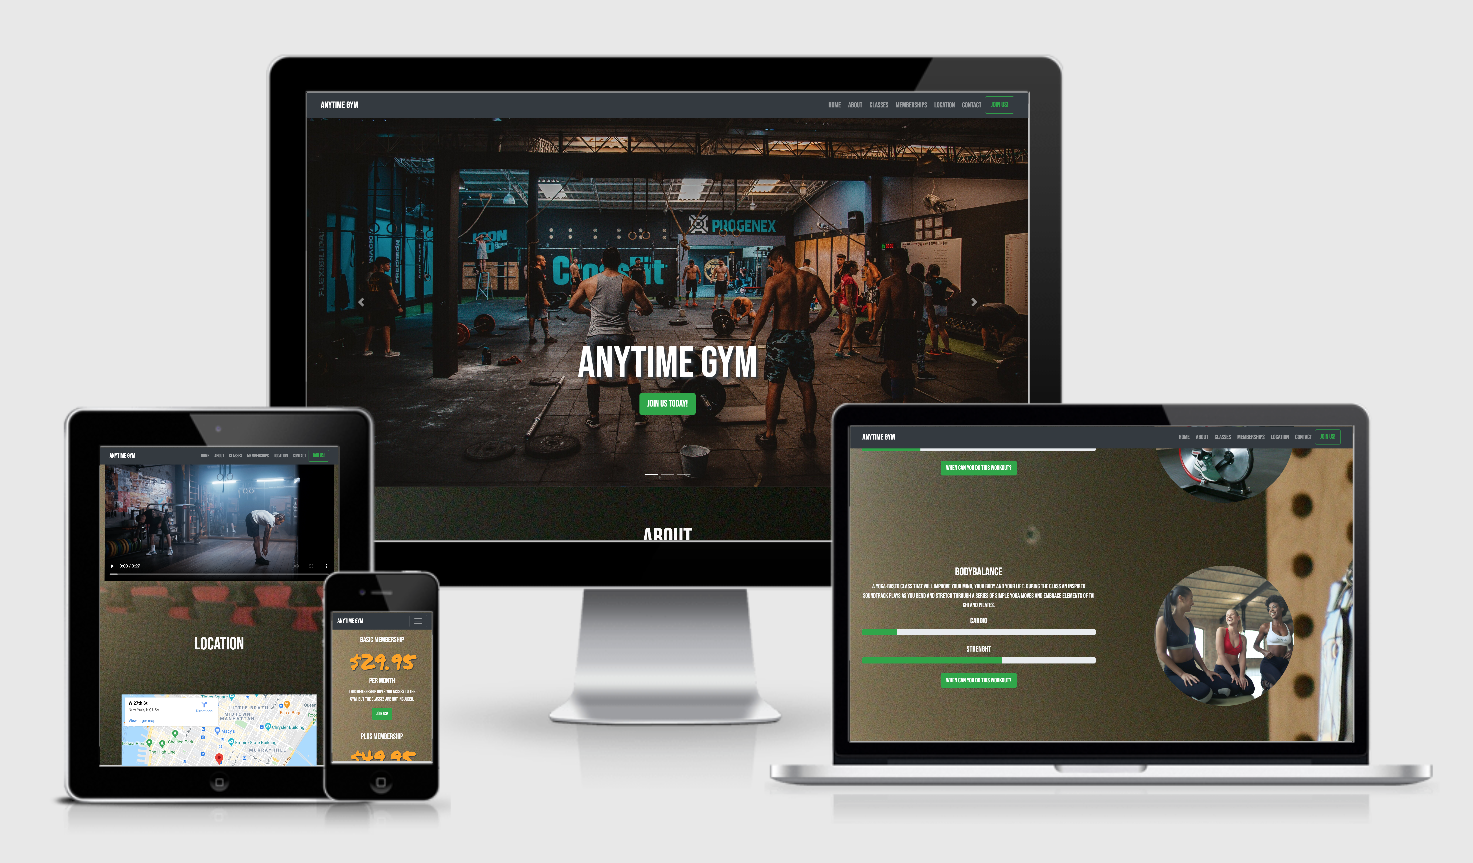
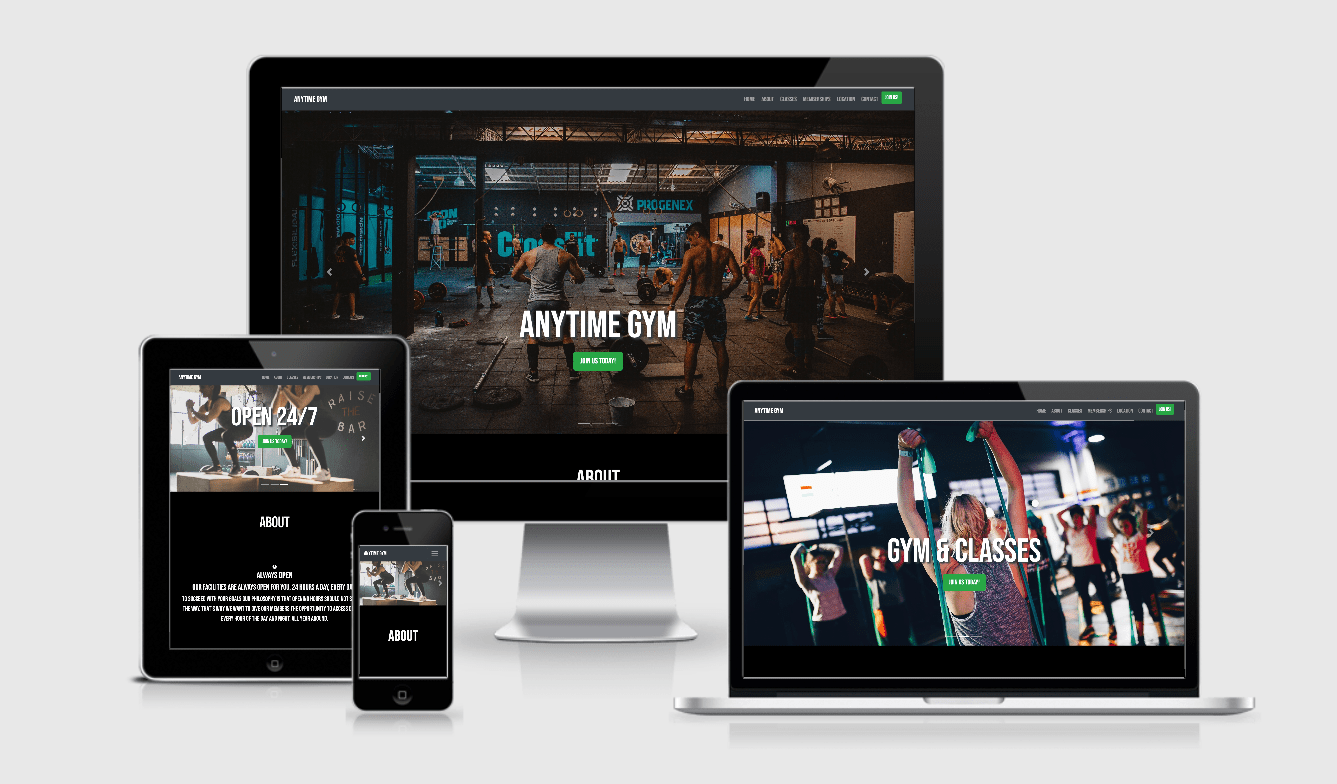
Updated README file, testing section and updated mockup image

diff --git a/README.md b/README.md
@@ -11,7 +11,7 @@ A HTML5, CSS3 & Bootstrap website.
 
 A live website can be found [here](https://emiberndt.github.io/User-Centric-Frontend-Project---AnytimeGym/)
 
-![Mockup](/assets/images/mockup.png)
+![Mockup](assets/images/mockup.png)
 
 
 # Table of Contents
@@ -189,35 +189,71 @@ On each image-slide there is also a button for the user to click to be able to s
 
 #### Google Developer Tools 
 
-I used Google Developer tools to help identify any flagged errors. A handy feature is the audit tool, and it alerted me that I had to compress my images even further. 
+I used Google Developer tools to help identify any errors, aswell as testing its responsive features. 
 
-As well as this, the developer tool also has a responsive feature. It tells you how your site looks across multiple devices, including a 4k screen. This was insightful as I decided to use containers to ensure my site looked good on larger screens. I also made the navbar and footer to stretch across the width of the device. This is to enhance the user experience. 
-
-Also, I found there was an issue with my portfolio and skills section when I viewed my site on mobile. I realised the shadow effect by Bootstrap was causing my section to go beyond the container. I fixed this using media queries ensuring alignment was achieved. 
+No issues were found and the responsiveness works nicely.
 
 #### Responsive Tools
 
+I have tested my site on Safari, and Google Chrome and the site looks like it was intended to do. 
+
 [Am I Responsive](http://ami.responsivedesign.is/) 
-[Responsinator](https://www.responsinator.com/) 
 
-#### W3C Validator Tools
+Tested on desktop, notebook, tablet, and mobile.
 
-To help validate my HTML and CSS, I used W3C validator tools to ensure my code was clean. I regularly checked if my code was cleared from any errors after each section was created. 
+This is where I created the mockup for the site.
 
-Here are a couple of errors flagged and rectified:
-- Element `<div>` not allowed as a child of element `<button>` in this context. I rectified this by replacing `<div>` with a `<span>`and gave it a property of display:block. 
-- Image elements must have an alt attribute. I rectified this by giving an alt attribute. I realised I need to get into the habit of adding this as soon as I add an image. I understand the importance for accessibility purposes. 
-- Section lacks heading. I used `<p>` tag and used Bootstrap's h4 class to style headings. I instead replaced the `<p>` and used `<h4>`. 
-- Element `<span>` not allowed as child of element `<ul>` in this context - this was referring to the education and experience section. I realised I was nesting my list items incorrectly. 
+[Responsive Design Checker](https://responsivedesignchecker.com/) 
 
-I have tested my site on Safari, and Google Chrome and the website looks fine and works as intended. I have also tested on the following devices:
-- iPhone X
-- iPhone XR
-- iPhone 6 plus
-- Samsung Galaxy 
-- Desktop
-- Macbook Pro
-- iPad 
+Here I was able to test in a more detailed manner how the site would function on a number of different devices:
+
+- Desktop 24"/23"/22"/20"/19"
+- Notebook 15"/13"/10"
+- Apple iPad mini/Pro/Retina
+- Amazon Kindle Fire/Fire HD
+- Samsung Galaxy Tab 10
+- Apple Iphone 6/6s/7/6s Plus/7 Plus
+- Samsung Galaxy S5/S6/S7
+- Sony Xperia Z2/Z3
+
+#### Validator Tools
+
+To help validate my HTML and CSS.
+
+HTML:
+[W3C Validator](https://validator.w3.org/)
+
+Two errors occur:
+- Error: Bad value 100% for attribute width on element video: Expected a digit but saw % instead. From line 339, column 9; to line 339, column 37
+
+    video width="100%" controls
+
+    I did however found that this error is a necessity for the video to be able to be responsive.
+
+- Error: The value of the for attribute of the label element must be the ID of a non-hidden form control.
+
+    From line 439, column 33; to line 439, column 54
+
+    label for="ccnumber"
+
+    This was also an error that I found was necessary. I took the layout of the payment form from [BBBootstrap Team](https://bbbootstrap.com/snippets/simple-payment-credit-card-form-41641728), which works perfectly as it is. When trying to fix the error the form will not line up as it should. The label for is necessary for the form to align and look nice and neat.
+
+
+CSS: [W3C CSS Validator](https://jigsaw.w3.org/css-validator/)
+
+Two errors occur:
+
+- 6	abbr[data-original-title], abbr[title]	Property text-decoration-skip-ink doesn't exist : none
+
+- 6	.accordion	Property overflow-anchor doesn't exist : none
+
+    This is something that does not exist in my CSS file, so I don't understand how this even can be detected here. I therefore decided to use a different CSS validator to see if I would get the same errors.
+
+CSS [Code Beautify](https://codebeautify.org/cssvalidate)
+
+No errors occur when I run the code in this validator.
+
+
 
 # Deployment
 
@@ -253,11 +289,6 @@ GitHub Pages:
 #### Media Sources
 
 Images
-- Background (index.html)
-
-  By Ivan Samkov
-  https://www.pexels.com/photo/black-punching-bag-4162449/  
-
 - Carousel
 
   By Luis Vidal
